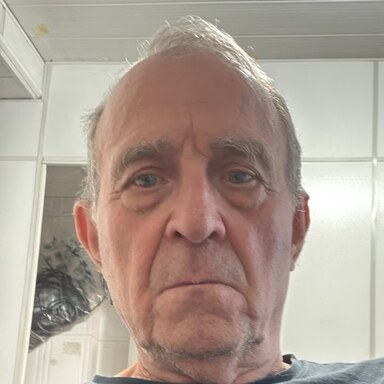
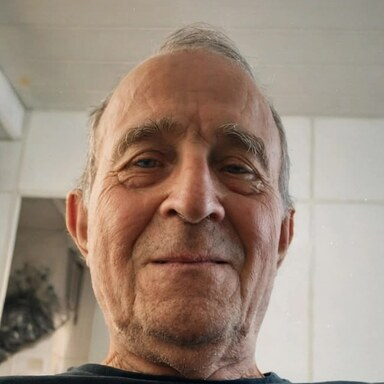
Atualiza a foto de Joaquim nos dois sites

diff --git a/operacao-camerota.html b/operacao-camerota.html
@@ -386,7 +386,7 @@ header .mission-index p{margin:0;font-size:.92rem;line-height:1.45;color:#f2d9bd
 <main>
 <section id="introducao" class="intro-historia mission-intro" aria-labelledby="titulo-introducao"><div class="intro-cabecalho"><span class="intro-kicker">Prólogo · Sanseveros na Itália · 2026–2027</span><h2 id="titulo-introducao">🇮🇹 Nossa história: raízes, encontros e gerações</h2><p class="intro-lead">Toda família é feita de histórias. A nossa atravessa gerações, países e oceanos.</p></div><div class="intro-corpo"><p>A viagem dos Sanseveros à Itália nasceu de um desejo que vai muito além de conhecer cidades famosas ou visitar monumentos históricos. É uma oportunidade de celebrar nossas origens, reunir a família e descobrir os lugares que fazem parte de uma história muito maior do que cada um de nós.</p><p>Nossa trajetória foi construída por muitas pessoas: antepassados que viveram na Itália, familiares que atravessaram o Atlântico em busca de novos caminhos e gerações que cresceram no Brasil, preservando, cada uma à sua maneira, os vínculos com suas origens.</p><p>Entre esses personagens está <strong>Alfonso Sansiviero</strong>, um dos nossos antepassados italianos, cuja trajetória nos ajuda a compreender parte dessa história. Mas ele é apenas um dos muitos nomes, experiências e acontecimentos que contribuíram para formar a família que somos hoje.</p><h3>❤ Três gerações, uma viagem</h3><p>Em dezembro de 2026, treze integrantes da família embarcam para a Itália. Joaquim e Hilda estarão acompanhados de filhos, netos e outros familiares, em uma viagem que reúne diferentes gerações, idades, expectativas e maneiras de descobrir o mundo.</p><p>Para alguns, será a oportunidade de revisitar lugares conhecidos. Para outros, a primeira experiência na Itália. Para todos, uma chance de compartilhar momentos que dificilmente aconteceriam da mesma forma em nosso cotidiano.</p><h3>🌿 Camerota: um encontro com nossas origens</h3><p>Nossa jornada passará por Florença, Pisa, Lucca, Milão, Turim e Roma, reunindo arte, história, gastronomia e paisagens italianas. Mas <strong>Camerota</strong>, uma pequena cidade da Campânia, terá um significado especial: é um lugar ligado a parte das nossas raízes familiares.</p><p>Caminhar por suas ruas, conhecer suas igrejas e observar a paisagem será também uma maneira de imaginar a vida daqueles que vieram antes de nós. Não esperamos encontrar todas as respostas sobre nosso passado, mas conhecer melhor os lugares e as histórias que ajudam a explicar de onde viemos.</p><h3>✨ O que levaremos de volta</h3><p>Uma viagem como esta não se mede apenas pelos quilômetros percorridos ou pelas atrações visitadas. Ela será feita de conversas à mesa, fotografias em família, descobertas inesperadas, histórias relembradas e, provavelmente, alguns imprevistos que acabarão se tornando boas lembranças.</p><p class="intro-fecho"><strong>Vamos à Itália para conhecer um pouco mais do nosso passado, aproveitar o presente juntos e criar histórias para as próximas gerações.</strong> Porque nossas raízes ajudam a contar de onde viemos. Mas é a família que continua escrevendo a história.</p></div></section>
 <section id="rota"><div class="mission-chapters">Capítulo 01 · O mapa do grande plano</div><h2>O Mapa da Missão</h2><p class="section-take">Do norte ao sul da Itália, com uma parada especialmente importante: o reencontro com Camerota.</p><div class="mission-jump" aria-label="Atalhos para a missão"><a href="#calendario">🗓 Ver os dias</a><a href="#trens">🚄 Trens</a><a href="#hoteis">🧳 Hospedagens</a><a href="#pendencias">🎟 O que falta resolver</a></div><p class="muted">O mesmo mapa ilustrado em aquarela da versão clássica, com destinos, datas e etapas da viagem. Consulte o calendário para horários e reservas atualizados.</p><figure class="mapa-estatico"><img src="./mapa-sanseveros-italia-2026-2027.png" alt="Mapa em aquarela da viagem dos Sanseveros pela Itália, com destinos, datas, trajetos e participantes" loading="eager" decoding="async" width="1536" height="1024"><figcaption>Roteiro de 26/12/2026 a 10/01/2027 · <a href="./mapa-sanseveros-italia-2026-2027.png" target="_blank" rel="noopener noreferrer">Ampliar o mapa</a></figcaption></figure></section>
-<section id="familia"><div class="mission-chapters">Capítulo 02 · O elenco principal</div><h2>O Elenco — 13 protagonistas, nenhum figurante</h2><p class="section-take">Uma família, três gerações e um roteiro ambicioso. No papel, tudo funciona. Na prática, teremos treze protagonistas e pelo menos treze opiniões sobre onde almoçar.</p><p class="muted">Fotos dos participantes aparecem quando disponíveis e autorizadas. Até lá, cada integrante ganha seu próprio cartaz.</p><div class="pessoas-grid"><article class="pessoa-card"><div class="pessoa-avatar" aria-label="Espaço reservado para foto de Hilda"><span aria-hidden="true">H</span></div><h3>Hilda</h3><p>Grupo de 30/12</p></article><article class="pessoa-card"><div class="pessoa-avatar"><span aria-hidden="true">J</span><img src="./fotos/joaquim.jpg" alt="Foto de Joaquim" loading="lazy" decoding="async" onload="this.parentElement.classList.add('tem-foto')" onerror="this.remove()"></div><h3>Joaquim</h3><p>Grupo de 30/12</p></article><article class="pessoa-card"><div class="pessoa-avatar" aria-label="Espaço reservado para foto de Nanda"><span aria-hidden="true">N</span></div><h3>Nanda</h3><p>Primeiro grupo</p></article><article class="pessoa-card"><div class="pessoa-avatar" aria-label="Espaço reservado para foto de Glaucio"><span aria-hidden="true">G</span></div><h3>Glaucio</h3><p>Primeiro grupo</p></article><article class="pessoa-card"><div class="pessoa-avatar"><span aria-hidden="true">P</span><img src="./fotos/perla.jpg" alt="Foto de Perla" loading="lazy" decoding="async" onload="this.parentElement.classList.add('tem-foto')" onerror="this.remove()"></div><h3>Perla</h3><p>Grupo de 30/12</p></article><article class="pessoa-card"><div class="pessoa-avatar" aria-label="Espaço reservado para foto de Giovanni"><span aria-hidden="true">G</span></div><h3>Giovanni</h3><p>Grupo de 30/12</p></article><article class="pessoa-card"><div class="pessoa-avatar" aria-label="Espaço reservado para foto de Marina"><span aria-hidden="true">M</span></div><h3>Marina</h3><p>Grupo de 30/12</p></article><article class="pessoa-card"><div class="pessoa-avatar" aria-label="Espaço reservado para foto de Lucas"><span aria-hidden="true">L</span><img src="./fotos/lucas.jpg" alt="Foto de Lucas" loading="lazy" decoding="async" onload="this.parentElement.classList.add('tem-foto')" onerror="this.remove()"></div><h3>Lucas</h3><p>Grupo de 30/12</p></article><article class="pessoa-card"><div class="pessoa-avatar" aria-label="Espaço reservado para foto de Pedro"><span aria-hidden="true">P</span></div><h3>Pedro</h3><p>Grupo de 30/12</p></article><article class="pessoa-card"><div class="pessoa-avatar" aria-label="Espaço reservado para foto de Arthur"><span aria-hidden="true">A</span></div><h3>Arthur</h3><p>Grupo de 30/12</p></article><article class="pessoa-card"><div class="pessoa-avatar" aria-label="Espaço reservado para foto de Malu"><span aria-hidden="true">M</span></div><h3>Malu</h3><p>Primeiro grupo</p></article><article class="pessoa-card"><div class="pessoa-avatar" aria-label="Espaço reservado para foto de Gabriel"><span aria-hidden="true">G</span></div><h3>Gabriel</h3><p>Grupo de 30/12</p></article><article class="pessoa-card"><div class="pessoa-avatar" aria-label="Espaço reservado para foto de Miguel"><span aria-hidden="true">M</span></div><h3>Miguel</h3><p>Primeiro grupo</p></article></div><div class="familia-info"><article class="card"><h3>Primeiro grupo · 4 pessoas</h3><p>Glaucio, Nanda, Malu e Miguel viajam desde 25/12.</p></article><article class="card"><h3>Grupo de 30/12 · 9 pessoas</h3><p>Joaquim, Hilda, Perla, Gabriel, Lucas, Giovanni, Marina, Pedro e Arthur se juntam à viagem.</p></article><article class="card"><h3>Etapas da viagem</h3><p>13 pessoas até 02/01; 12 após a saída da Nanda em 03/01; 11 após a saída de Lucas em 07/01.</p></article><article class="card"><h3>🎂 Aniversários</h3><p>02/01: Miguel completa 16 anos. 06/01: Pedro completa 22 anos.</p></article></div><p class="muted">O roteiro considera pausas e deslocamentos confortáveis para os familiares mais velhos.</p></section>
+<section id="familia"><div class="mission-chapters">Capítulo 02 · O elenco principal</div><h2>O Elenco — 13 protagonistas, nenhum figurante</h2><p class="section-take">Uma família, três gerações e um roteiro ambicioso. No papel, tudo funciona. Na prática, teremos treze protagonistas e pelo menos treze opiniões sobre onde almoçar.</p><p class="muted">Fotos dos participantes aparecem quando disponíveis e autorizadas. Até lá, cada integrante ganha seu próprio cartaz.</p><div class="pessoas-grid"><article class="pessoa-card"><div class="pessoa-avatar" aria-label="Espaço reservado para foto de Hilda"><span aria-hidden="true">H</span></div><h3>Hilda</h3><p>Grupo de 30/12</p></article><article class="pessoa-card"><div class="pessoa-avatar"><span aria-hidden="true">J</span><img src="./fotos/joaquim.jpg?v=2" alt="Foto de Joaquim" loading="lazy" decoding="async" onload="this.parentElement.classList.add('tem-foto')" onerror="this.remove()"></div><h3>Joaquim</h3><p>Grupo de 30/12</p></article><article class="pessoa-card"><div class="pessoa-avatar" aria-label="Espaço reservado para foto de Nanda"><span aria-hidden="true">N</span></div><h3>Nanda</h3><p>Primeiro grupo</p></article><article class="pessoa-card"><div class="pessoa-avatar" aria-label="Espaço reservado para foto de Glaucio"><span aria-hidden="true">G</span></div><h3>Glaucio</h3><p>Primeiro grupo</p></article><article class="pessoa-card"><div class="pessoa-avatar"><span aria-hidden="true">P</span><img src="./fotos/perla.jpg" alt="Foto de Perla" loading="lazy" decoding="async" onload="this.parentElement.classList.add('tem-foto')" onerror="this.remove()"></div><h3>Perla</h3><p>Grupo de 30/12</p></article><article class="pessoa-card"><div class="pessoa-avatar" aria-label="Espaço reservado para foto de Giovanni"><span aria-hidden="true">G</span></div><h3>Giovanni</h3><p>Grupo de 30/12</p></article><article class="pessoa-card"><div class="pessoa-avatar" aria-label="Espaço reservado para foto de Marina"><span aria-hidden="true">M</span></div><h3>Marina</h3><p>Grupo de 30/12</p></article><article class="pessoa-card"><div class="pessoa-avatar" aria-label="Espaço reservado para foto de Lucas"><span aria-hidden="true">L</span><img src="./fotos/lucas.jpg" alt="Foto de Lucas" loading="lazy" decoding="async" onload="this.parentElement.classList.add('tem-foto')" onerror="this.remove()"></div><h3>Lucas</h3><p>Grupo de 30/12</p></article><article class="pessoa-card"><div class="pessoa-avatar" aria-label="Espaço reservado para foto de Pedro"><span aria-hidden="true">P</span></div><h3>Pedro</h3><p>Grupo de 30/12</p></article><article class="pessoa-card"><div class="pessoa-avatar" aria-label="Espaço reservado para foto de Arthur"><span aria-hidden="true">A</span></div><h3>Arthur</h3><p>Grupo de 30/12</p></article><article class="pessoa-card"><div class="pessoa-avatar" aria-label="Espaço reservado para foto de Malu"><span aria-hidden="true">M</span></div><h3>Malu</h3><p>Primeiro grupo</p></article><article class="pessoa-card"><div class="pessoa-avatar" aria-label="Espaço reservado para foto de Gabriel"><span aria-hidden="true">G</span></div><h3>Gabriel</h3><p>Grupo de 30/12</p></article><article class="pessoa-card"><div class="pessoa-avatar" aria-label="Espaço reservado para foto de Miguel"><span aria-hidden="true">M</span></div><h3>Miguel</h3><p>Primeiro grupo</p></article></div><div class="familia-info"><article class="card"><h3>Primeiro grupo · 4 pessoas</h3><p>Glaucio, Nanda, Malu e Miguel viajam desde 25/12.</p></article><article class="card"><h3>Grupo de 30/12 · 9 pessoas</h3><p>Joaquim, Hilda, Perla, Gabriel, Lucas, Giovanni, Marina, Pedro e Arthur se juntam à viagem.</p></article><article class="card"><h3>Etapas da viagem</h3><p>13 pessoas até 02/01; 12 após a saída da Nanda em 03/01; 11 após a saída de Lucas em 07/01.</p></article><article class="card"><h3>🎂 Aniversários</h3><p>02/01: Miguel completa 16 anos. 06/01: Pedro completa 22 anos.</p></article></div><p class="muted">O roteiro considera pausas e deslocamentos confortáveis para os familiares mais velhos.</p></section>
 <section id="situacao"><div class="mission-chapters">Capítulo 03 · O relatório de produção</div><h2>O Estado da Missão</h2><p class="section-take">Bilhetes na mão, hotéis no roteiro e algumas pequenas missões paralelas ainda por resolver.</p><div class="mission-status"><article><strong>13</strong><span>viajantes no encontro de Milão</span></article><article><strong>11/11</strong><span>bilhetes confirmados no trem Nápoles–Milão de 09/01</span></article><article><strong>11/11</strong><span>hospedagens identificadas em Nápoles, 08–09/01</span></article><article><strong>1 carro</strong><span>Ecovia reservado para Glaucio, Malu e Miguel; demais transportes a confirmar</span></article></div><div class="mission-note"><h3>🎞 Continuidade: cenas que exigem atenção</h3><p><strong>Roma:</strong> reserva antiga de Glaucio cancelada; válida a hospedagem de 3 pessoas. Ajustar ocupação dos quartos do núcleo Giovanni.</p><p><strong>Camerota:</strong> visita de passagem à vila histórica em 07/01; hospedagem em Marina di Camerota. Corrigir ocupação do quarto de Perla e verificar acessibilidade.</p><p><strong>Malpensa:</strong> hospedagem de Perla, Gabriel, Joaquim e Hilda confirmada; verificar ocupação do núcleo Giovanni e transfer ao aeroporto.</p><p><strong>Transporte:</strong> o carro reservado atende apenas Glaucio, Malu e Miguel. A solução para os outros oito viajantes nos dias 07–08/01 continua pendente.</p></div><p class="muted">Este quadro resume reservas registradas, não substitui os comprovantes. As pendências oficiais devem ser verificadas na seção correspondente.</p></section>
 <section id="atracoes"><div class="mission-chapters">Capítulo 04 · Os cenários da aventura</div><h2>Os Cenários da Aventura</h2><p class="muted">Galeria alinhada ao roteiro diário. Atrações prioritárias do roteiro de Lucas aparecem com suas datas; passeios adicionais são opcionais.</p><div class="atracoes-grid"><article class="atracao"><div class="atracao-art" style="--a:#d5a878;--b:#8e5846"><img loading="lazy" decoding="async" alt="Fotografia real: Duomo de Florença" src="https://upload.wikimedia.org/wikipedia/commons/thumb/4/43/Florence_Cathedral_%28Duomo%29.jpg/960px-Florence_Cathedral_%28Duomo%29.jpg" onerror="this.style.display='none'" /><span class="pictograma" aria-hidden="true">📍</span></div><div class="atracao-body"><span class="data">27/12</span><h3>Duomo de Florença</h3><a class="foto-credito" href="https://commons.wikimedia.org/wiki/File:Florence%20Cathedral%20(Duomo).jpg" target="_blank" rel="noopener noreferrer">Foto: Wikimedia Commons · licença na fonte</a><div class="meta">Florença · Catedral de Santa Maria del Fiore</div></div></article>
 <article class="atracao"><div class="atracao-art" style="--a:#d3b18b;--b:#7e9f9b"><img loading="lazy" decoding="async" alt="Fotografia real: Ponte Vecchio" src="https://upload.wikimedia.org/wikipedia/commons/thumb/3/3b/Ponte_Vecchio_%2871668%29.jpg/960px-Ponte_Vecchio_%2871668%29.jpg" onerror="this.style.display='none'" /><span class="pictograma" aria-hidden="true">📍</span></div><div class="atracao-body"><span class="data">27/12</span><h3>Ponte Vecchio</h3><a class="foto-credito" href="https://commons.wikimedia.org/wiki/File:Ponte%20Vecchio%20(71668).jpg" target="_blank" rel="noopener noreferrer">Foto: Rhododendrites / Wikimedia Commons · licença na fonte</a><div class="meta">Florença · Ponte histórica sobre o rio Arno</div></div></article>

diff --git a/index.html b/index.html
@@ -101,7 +101,7 @@ th,td{padding:10px;min-width:110px;font-size:.89rem}
 <main>
 <section id="introducao" class="intro-historia" aria-labelledby="titulo-introducao"><div class="intro-cabecalho"><span class="intro-kicker">Sanseveros na Itália · 2026–2027</span><h2 id="titulo-introducao">🇮🇹 Nossa história: raízes, encontros e gerações</h2><p class="intro-lead">Toda família é feita de histórias. A nossa atravessa gerações, países e oceanos.</p></div><div class="intro-corpo"><p>A viagem dos Sanseveros à Itália nasceu de um desejo que vai muito além de conhecer cidades famosas ou visitar monumentos históricos. É uma oportunidade de celebrar nossas origens, reunir a família e descobrir os lugares que fazem parte de uma história muito maior do que cada um de nós.</p><p>Nossa trajetória foi construída por muitas pessoas: antepassados que viveram na Itália, familiares que atravessaram o Atlântico em busca de novos caminhos e gerações que cresceram no Brasil, preservando, cada uma à sua maneira, os vínculos com suas origens.</p><p>Entre esses personagens está <strong>Alfonso Sansiviero</strong>, um dos nossos antepassados italianos, cuja trajetória nos ajuda a compreender parte dessa história. Mas ele é apenas um dos muitos nomes, experiências e acontecimentos que contribuíram para formar a família que somos hoje.</p><h3>❤ Três gerações, uma viagem</h3><p>Em dezembro de 2026, treze integrantes da família embarcam para a Itália. Joaquim e Hilda estarão acompanhados de filhos, netos e outros familiares, em uma viagem que reúne diferentes gerações, idades, expectativas e maneiras de descobrir o mundo.</p><p>Para alguns, será a oportunidade de revisitar lugares conhecidos. Para outros, a primeira experiência na Itália. Para todos, uma chance de compartilhar momentos que dificilmente aconteceriam da mesma forma em nosso cotidiano.</p><h3>🌿 Camerota: um encontro com nossas origens</h3><p>Nossa jornada passará por Florença, Pisa, Lucca, Milão, Turim e Roma, reunindo arte, história, gastronomia e paisagens italianas. Mas <strong>Camerota</strong>, uma pequena cidade da Campânia, terá um significado especial: é um lugar ligado a parte das nossas raízes familiares.</p><p>Caminhar por suas ruas, conhecer suas igrejas e observar a paisagem será também uma maneira de imaginar a vida daqueles que vieram antes de nós. Não esperamos encontrar todas as respostas sobre nosso passado, mas conhecer melhor os lugares e as histórias que ajudam a explicar de onde viemos.</p><h3>✨ O que levaremos de volta</h3><p>Uma viagem como esta não se mede apenas pelos quilômetros percorridos ou pelas atrações visitadas. Ela será feita de conversas à mesa, fotografias em família, descobertas inesperadas, histórias relembradas e, provavelmente, alguns imprevistos que acabarão se tornando boas lembranças.</p><p class="intro-fecho"><strong>Vamos à Itália para conhecer um pouco mais do nosso passado, aproveitar o presente juntos e criar histórias para as próximas gerações.</strong> Porque nossas raízes ajudam a contar de onde viemos. Mas é a família que continua escrevendo a história.</p></div></section>
 <section id="rota"><h2>🧭 Mapa ilustrativo do roteiro</h2><p class="muted">Uma visão geral dos destinos e das datas da viagem. Mapa ilustrado em aquarela para visualizar as etapas da viagem. Consulte o calendário para horários e reservas atualizados.</p><figure class="mapa-estatico"><img src="./mapa-sanseveros-italia-2026-2027.png" alt="Mapa em aquarela da viagem dos Sanseveros pela Itália, com destinos, datas, trajetos e participantes" loading="eager" decoding="async" width="1536" height="1024"><figcaption>Roteiro de 26/12/2026 a 10/01/2027 · <a href="./mapa-sanseveros-italia-2026-2027.png" target="_blank" rel="noopener noreferrer">Ampliar o mapa</a></figcaption></figure></section>
-<section id="familia"><h2>👨👩👧👦 Quem vai viajar</h2><p class="muted">Nossa família reunida na Itália: 13 participantes. As fotos individuais serão adicionadas quando estiverem disponíveis e autorizadas para publicação.</p><div class="pessoas-grid"><article class="pessoa-card"><div class="pessoa-avatar" aria-label="Espaço reservado para foto de Hilda"><span aria-hidden="true">H</span></div><h3>Hilda</h3><p>Grupo de 30/12</p></article><article class="pessoa-card"><div class="pessoa-avatar"><span aria-hidden="true">J</span><img src="./fotos/joaquim.jpg" alt="Foto de Joaquim" loading="lazy" decoding="async" onload="this.parentElement.classList.add('tem-foto')" onerror="this.remove()"></div><h3>Joaquim</h3><p>Grupo de 30/12</p></article><article class="pessoa-card"><div class="pessoa-avatar" aria-label="Espaço reservado para foto de Nanda"><span aria-hidden="true">N</span></div><h3>Nanda</h3><p>Primeiro grupo</p></article><article class="pessoa-card"><div class="pessoa-avatar" aria-label="Espaço reservado para foto de Glaucio"><span aria-hidden="true">G</span></div><h3>Glaucio</h3><p>Primeiro grupo</p></article><article class="pessoa-card"><div class="pessoa-avatar"><span aria-hidden="true">P</span><img src="./fotos/perla.jpg" alt="Foto de Perla" loading="lazy" decoding="async" onload="this.parentElement.classList.add('tem-foto')" onerror="this.remove()"></div><h3>Perla</h3><p>Grupo de 30/12</p></article><article class="pessoa-card"><div class="pessoa-avatar" aria-label="Espaço reservado para foto de Giovanni"><span aria-hidden="true">G</span></div><h3>Giovanni</h3><p>Grupo de 30/12</p></article><article class="pessoa-card"><div class="pessoa-avatar" aria-label="Espaço reservado para foto de Marina"><span aria-hidden="true">M</span></div><h3>Marina</h3><p>Grupo de 30/12</p></article><article class="pessoa-card"><div class="pessoa-avatar" aria-label="Espaço reservado para foto de Lucas"><span aria-hidden="true">L</span><img src="./fotos/lucas.jpg" alt="Foto de Lucas" loading="lazy" decoding="async" onload="this.parentElement.classList.add('tem-foto')" onerror="this.remove()"></div><h3>Lucas</h3><p>Grupo de 30/12</p></article><article class="pessoa-card"><div class="pessoa-avatar" aria-label="Espaço reservado para foto de Pedro"><span aria-hidden="true">P</span></div><h3>Pedro</h3><p>Grupo de 30/12</p></article><article class="pessoa-card"><div class="pessoa-avatar" aria-label="Espaço reservado para foto de Arthur"><span aria-hidden="true">A</span></div><h3>Arthur</h3><p>Grupo de 30/12</p></article><article class="pessoa-card"><div class="pessoa-avatar" aria-label="Espaço reservado para foto de Malu"><span aria-hidden="true">M</span></div><h3>Malu</h3><p>Primeiro grupo</p></article><article class="pessoa-card"><div class="pessoa-avatar" aria-label="Espaço reservado para foto de Gabriel"><span aria-hidden="true">G</span></div><h3>Gabriel</h3><p>Grupo de 30/12</p></article><article class="pessoa-card"><div class="pessoa-avatar" aria-label="Espaço reservado para foto de Miguel"><span aria-hidden="true">M</span></div><h3>Miguel</h3><p>Primeiro grupo</p></article></div><div class="familia-info"><article class="card"><h3>Primeiro grupo · 4 pessoas</h3><p>Glaucio, Nanda, Malu e Miguel viajam desde 25/12.</p></article><article class="card"><h3>Grupo de 30/12 · 9 pessoas</h3><p>Joaquim, Hilda, Perla, Gabriel, Lucas, Giovanni, Marina, Pedro e Arthur se juntam à viagem.</p></article><article class="card"><h3>Etapas da viagem</h3><p>13 pessoas até 02/01; 12 após a saída da Nanda em 03/01; 11 após a saída de Lucas em 07/01.</p></article><article class="card"><h3>🎂 Aniversários</h3><p>02/01: Miguel completa 16 anos. 06/01: Pedro completa 22 anos.</p></article></div><p class="muted">O roteiro considera pausas e deslocamentos confortáveis para os familiares mais velhos.</p></section>
+<section id="familia"><h2>👨👩👧👦 Quem vai viajar</h2><p class="muted">Nossa família reunida na Itália: 13 participantes. As fotos individuais serão adicionadas quando estiverem disponíveis e autorizadas para publicação.</p><div class="pessoas-grid"><article class="pessoa-card"><div class="pessoa-avatar" aria-label="Espaço reservado para foto de Hilda"><span aria-hidden="true">H</span></div><h3>Hilda</h3><p>Grupo de 30/12</p></article><article class="pessoa-card"><div class="pessoa-avatar"><span aria-hidden="true">J</span><img src="./fotos/joaquim.jpg?v=2" alt="Foto de Joaquim" loading="lazy" decoding="async" onload="this.parentElement.classList.add('tem-foto')" onerror="this.remove()"></div><h3>Joaquim</h3><p>Grupo de 30/12</p></article><article class="pessoa-card"><div class="pessoa-avatar" aria-label="Espaço reservado para foto de Nanda"><span aria-hidden="true">N</span></div><h3>Nanda</h3><p>Primeiro grupo</p></article><article class="pessoa-card"><div class="pessoa-avatar" aria-label="Espaço reservado para foto de Glaucio"><span aria-hidden="true">G</span></div><h3>Glaucio</h3><p>Primeiro grupo</p></article><article class="pessoa-card"><div class="pessoa-avatar"><span aria-hidden="true">P</span><img src="./fotos/perla.jpg" alt="Foto de Perla" loading="lazy" decoding="async" onload="this.parentElement.classList.add('tem-foto')" onerror="this.remove()"></div><h3>Perla</h3><p>Grupo de 30/12</p></article><article class="pessoa-card"><div class="pessoa-avatar" aria-label="Espaço reservado para foto de Giovanni"><span aria-hidden="true">G</span></div><h3>Giovanni</h3><p>Grupo de 30/12</p></article><article class="pessoa-card"><div class="pessoa-avatar" aria-label="Espaço reservado para foto de Marina"><span aria-hidden="true">M</span></div><h3>Marina</h3><p>Grupo de 30/12</p></article><article class="pessoa-card"><div class="pessoa-avatar" aria-label="Espaço reservado para foto de Lucas"><span aria-hidden="true">L</span><img src="./fotos/lucas.jpg" alt="Foto de Lucas" loading="lazy" decoding="async" onload="this.parentElement.classList.add('tem-foto')" onerror="this.remove()"></div><h3>Lucas</h3><p>Grupo de 30/12</p></article><article class="pessoa-card"><div class="pessoa-avatar" aria-label="Espaço reservado para foto de Pedro"><span aria-hidden="true">P</span></div><h3>Pedro</h3><p>Grupo de 30/12</p></article><article class="pessoa-card"><div class="pessoa-avatar" aria-label="Espaço reservado para foto de Arthur"><span aria-hidden="true">A</span></div><h3>Arthur</h3><p>Grupo de 30/12</p></article><article class="pessoa-card"><div class="pessoa-avatar" aria-label="Espaço reservado para foto de Malu"><span aria-hidden="true">M</span></div><h3>Malu</h3><p>Primeiro grupo</p></article><article class="pessoa-card"><div class="pessoa-avatar" aria-label="Espaço reservado para foto de Gabriel"><span aria-hidden="true">G</span></div><h3>Gabriel</h3><p>Grupo de 30/12</p></article><article class="pessoa-card"><div class="pessoa-avatar" aria-label="Espaço reservado para foto de Miguel"><span aria-hidden="true">M</span></div><h3>Miguel</h3><p>Primeiro grupo</p></article></div><div class="familia-info"><article class="card"><h3>Primeiro grupo · 4 pessoas</h3><p>Glaucio, Nanda, Malu e Miguel viajam desde 25/12.</p></article><article class="card"><h3>Grupo de 30/12 · 9 pessoas</h3><p>Joaquim, Hilda, Perla, Gabriel, Lucas, Giovanni, Marina, Pedro e Arthur se juntam à viagem.</p></article><article class="card"><h3>Etapas da viagem</h3><p>13 pessoas até 02/01; 12 após a saída da Nanda em 03/01; 11 após a saída de Lucas em 07/01.</p></article><article class="card"><h3>🎂 Aniversários</h3><p>02/01: Miguel completa 16 anos. 06/01: Pedro completa 22 anos.</p></article></div><p class="muted">O roteiro considera pausas e deslocamentos confortáveis para os familiares mais velhos.</p></section>
 
 
 <section id="atracoes"><h2>📍 Lugares que vamos conhecer</h2><p class="muted">Galeria alinhada ao roteiro diário. Atrações prioritárias do roteiro de Lucas aparecem com suas datas; passeios adicionais são opcionais.</p><div class="atracoes-grid"><article class="atracao"><div class="atracao-art" style="--a:#d5a878;--b:#8e5846"><img loading="lazy" decoding="async" alt="Fotografia real: Duomo de Florença" src="https://upload.wikimedia.org/wikipedia/commons/thumb/4/43/Florence_Cathedral_%28Duomo%29.jpg/960px-Florence_Cathedral_%28Duomo%29.jpg" onerror="this.style.display='none'" /><span class="pictograma" aria-hidden="true">📍</span></div><div class="atracao-body"><span class="data">27/12</span><h3>Duomo de Florença</h3><a class="foto-credito" href="https://commons.wikimedia.org/wiki/File:Florence%20Cathedral%20(Duomo).jpg" target="_blank" rel="noopener noreferrer">Foto: Wikimedia Commons · licença na fonte</a><div class="meta">Florença · Catedral de Santa Maria del Fiore</div></div></article>
